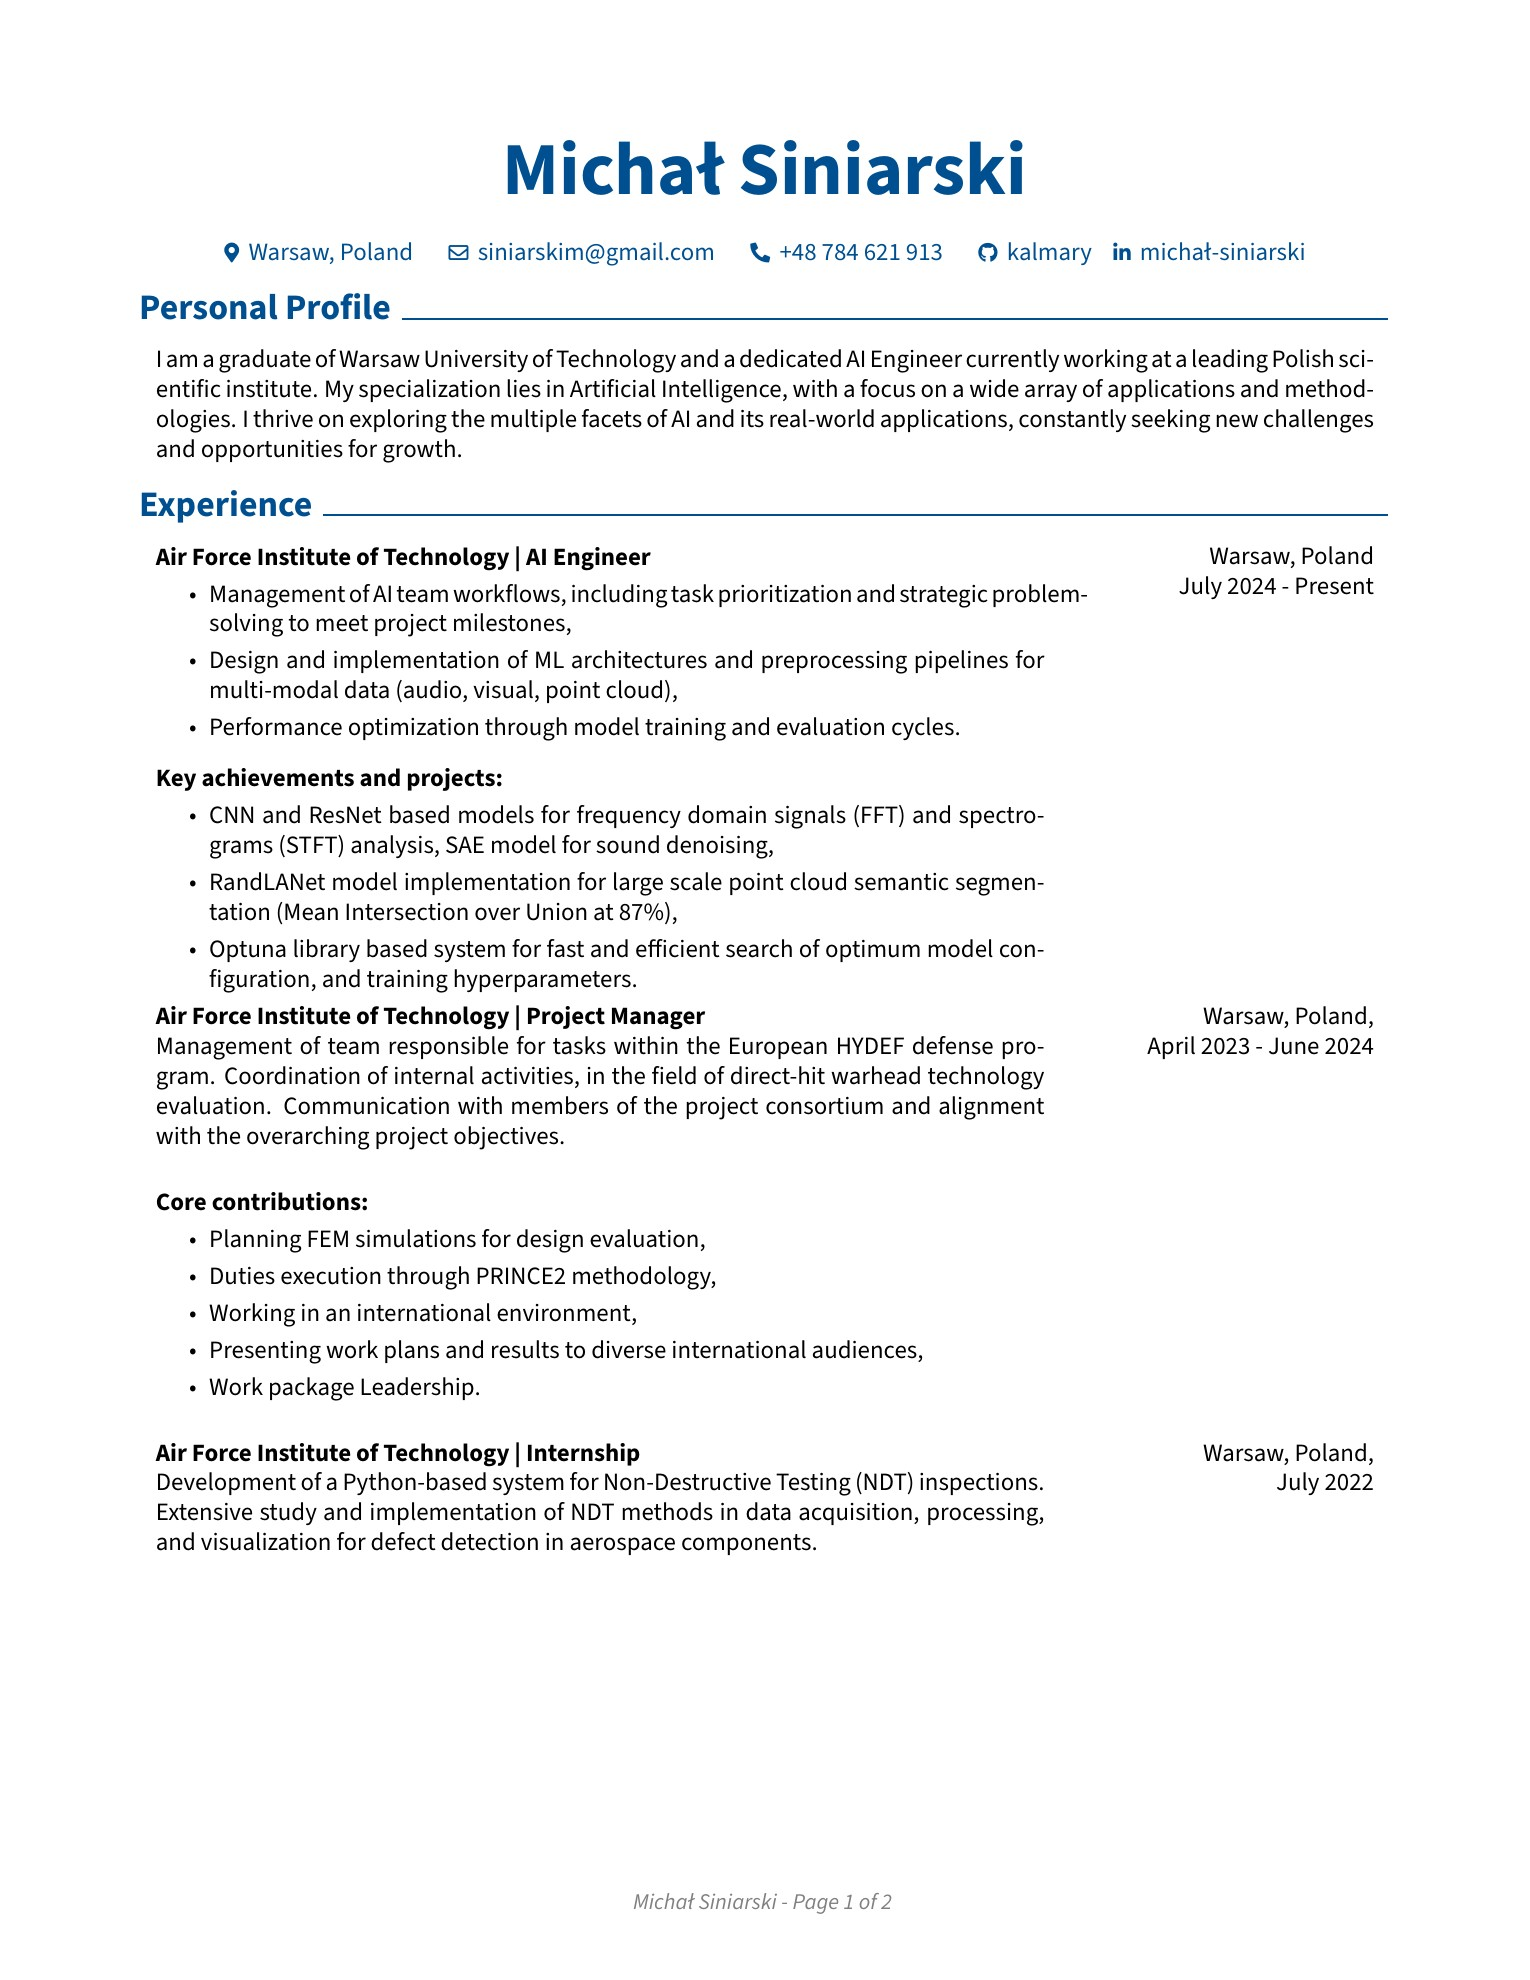
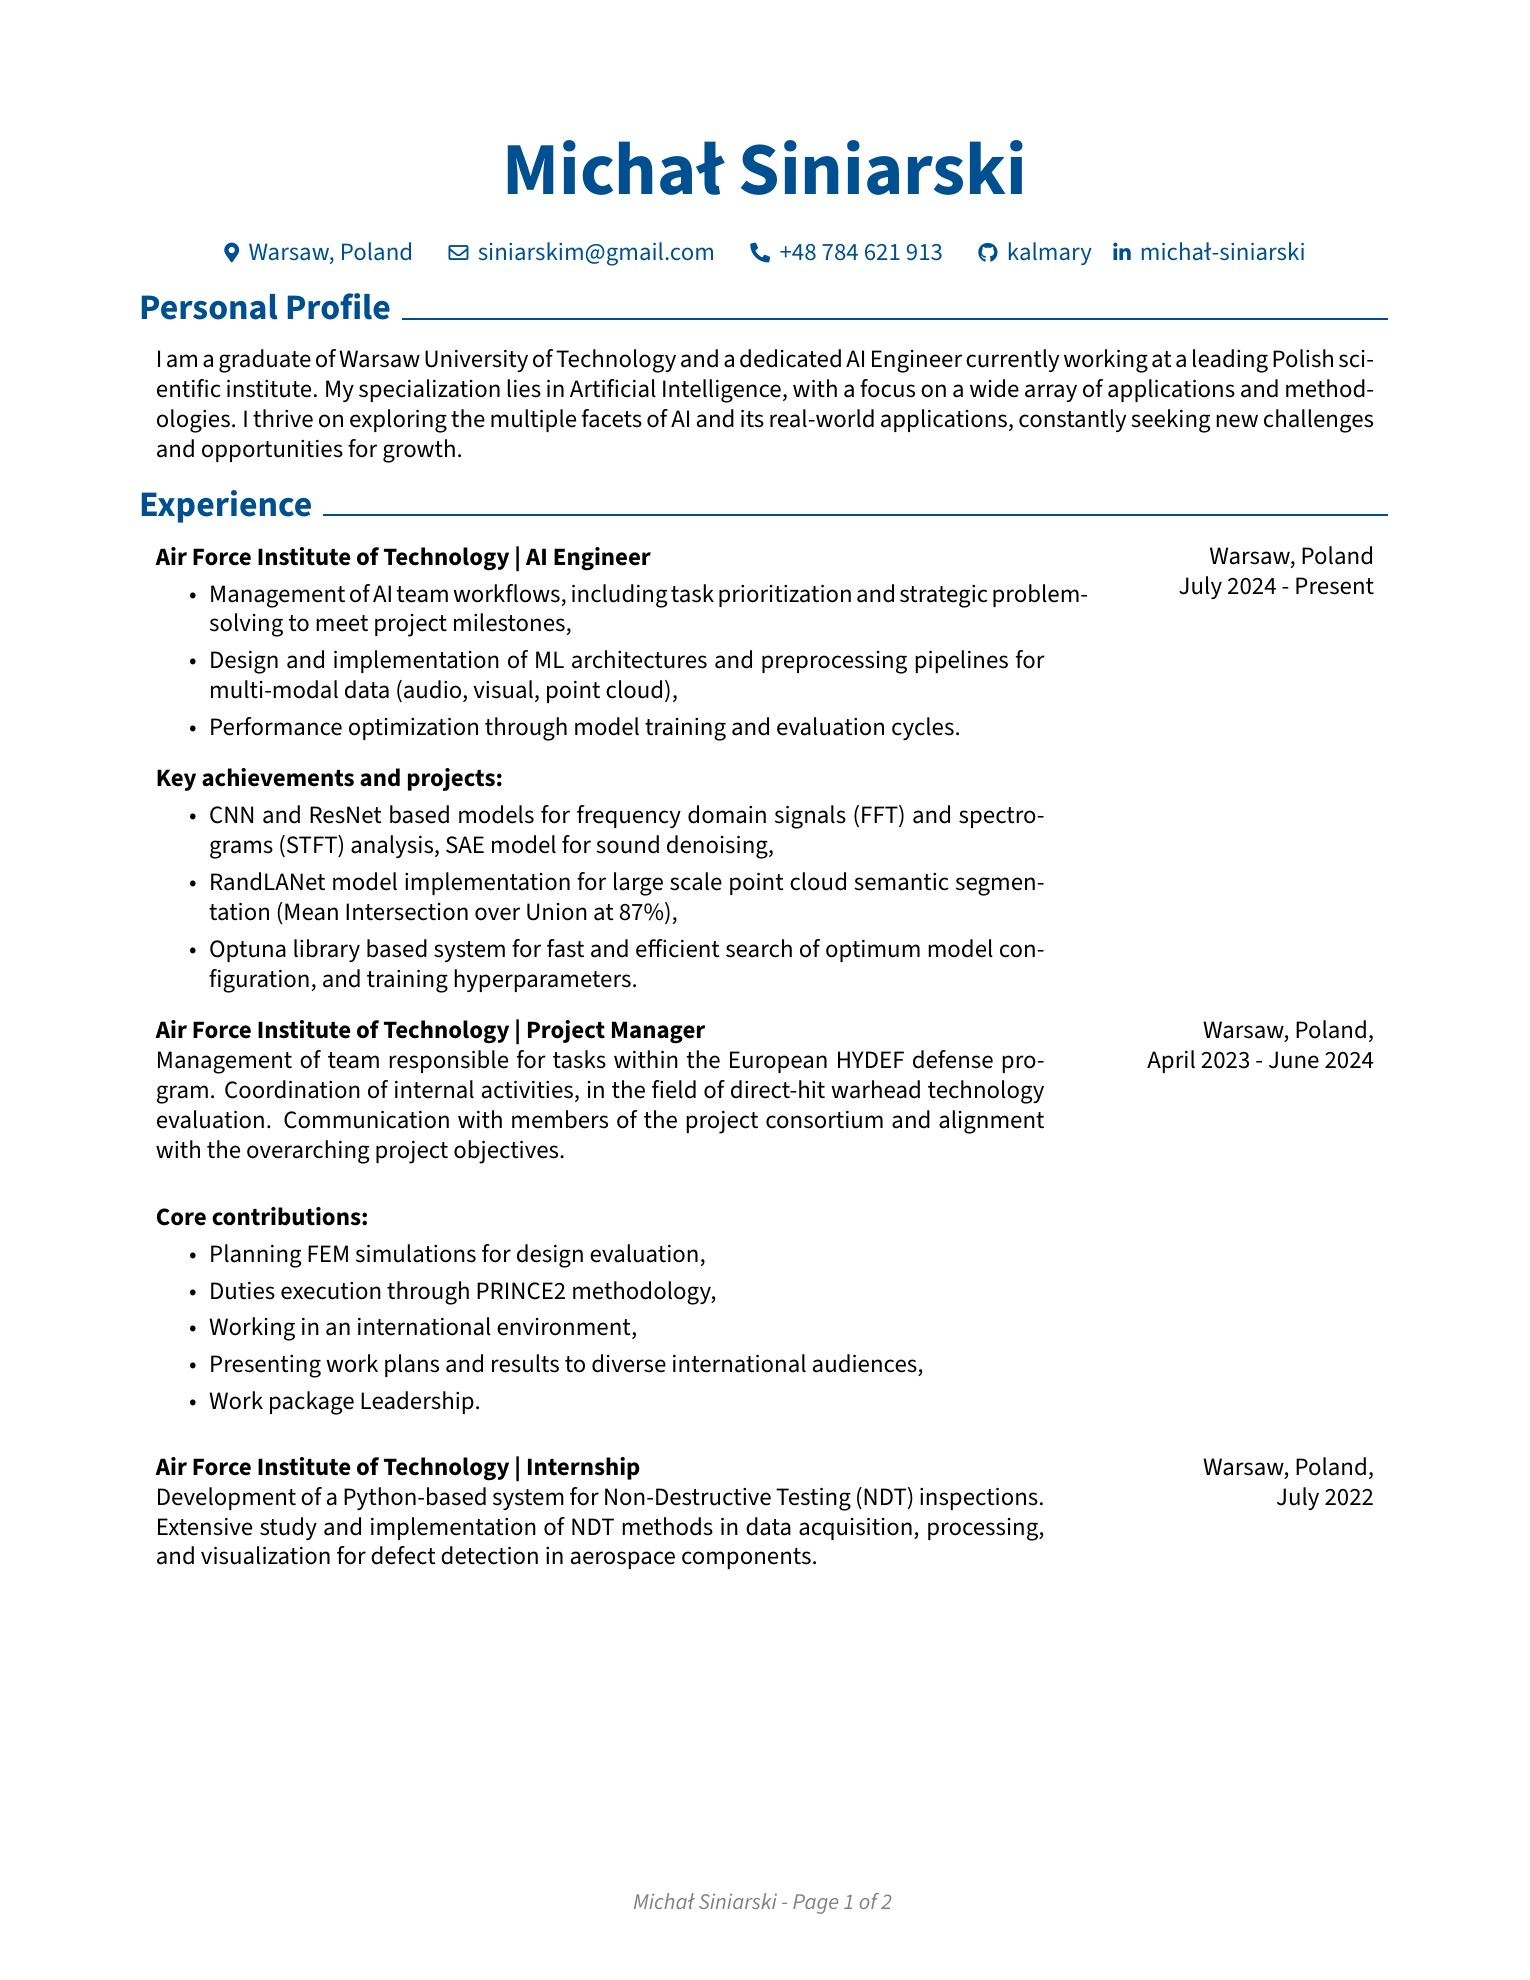
update spaces

Changed region(s): [[0.0922, 0.4929, 0.6758, 0.801], [0.7373, 0.4929, 0.8908, 0.5545], [0.7987, 0.7086, 0.8908, 0.7702]]

diff --git a/main.tex b/main.tex
@@ -194,7 +194,9 @@
             \item Optuna library based system for fast and efficient search of optimum model configuration, and training hyperparameters.
         \end{highlights}
     \end{twocolentry}
-
+    
+    \vspace{0.2 cm}
+    
     \begin{twocolentry}{
         Warsaw, Poland, \\ April 2023 - June 2024
     }
